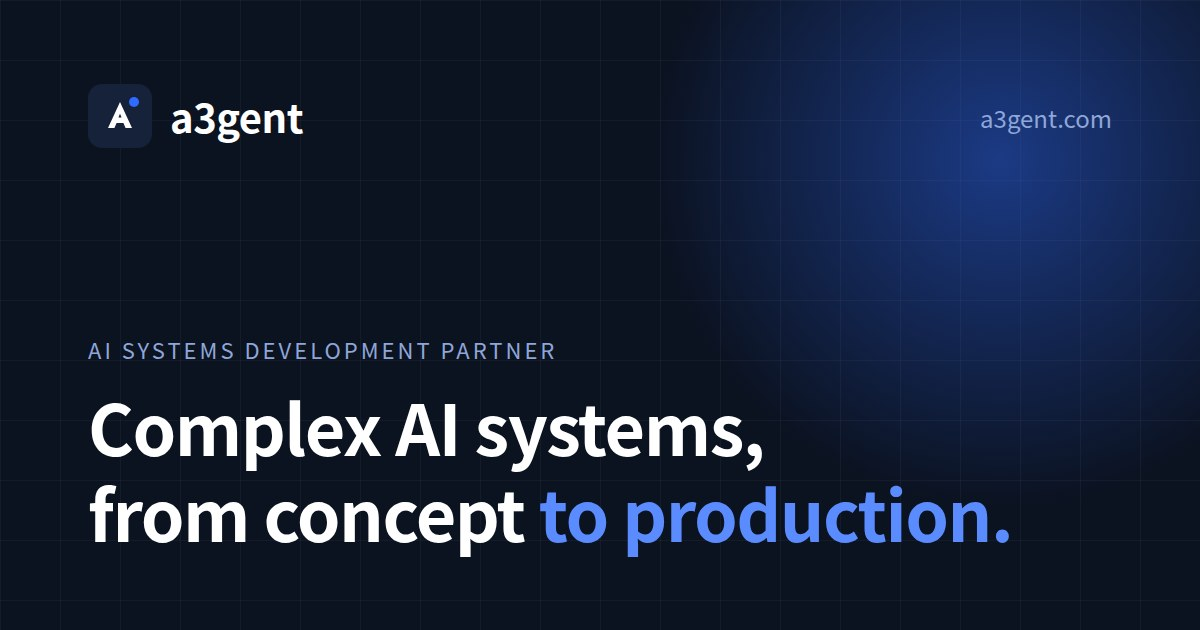
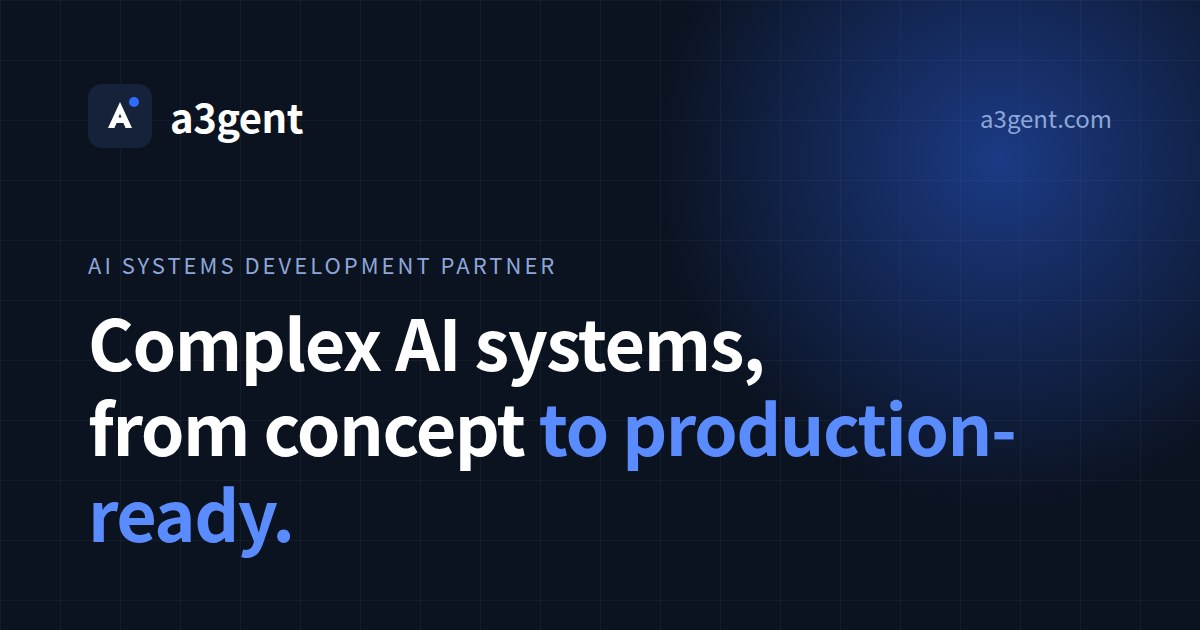
Hero copy: we build and hand over, the client operates
"구상에서 실제 운영까지" / "from concept to production" read as if a3gent
runs the service. Now "운영 가능한 완성까지" / "to production-ready", and
the lede says the client runs the system, operations tooling included.
Same change in titles, OG tags and images, footers and JSON-LD.

Claude-Session: https://claude.ai/code/session_01PHs6kJ9Y2A1oVYSjdwd2Ji

Changed region(s): [[0.0617, 0.6333, 0.8633, 0.9048], [0.0617, 0.4825, 0.6475, 0.6032], [0.0617, 0.3921, 0.4625, 0.4524]]

diff --git a/site/index.html b/site/index.html
@@ -3,7 +3,7 @@
 <head>
 <meta charset="utf-8">
 <meta name="viewport" content="width=device-width, initial-scale=1">
-<title>a3gent — 복잡한 AI 시스템, 구상에서 실제 운영까지</title>
+<title>a3gent — 복잡한 AI 시스템, 구상에서 운영 가능한 완성까지</title>
 <meta name="description" content="a3gent는 검증된 솔루션을 기반으로 기존 시스템·데이터·업무 흐름·운영 조건까지 설계해, AI를 안정적으로 운영되는 서비스로 구현하는 개발 파트너입니다.">
 <link rel="canonical" href="https://a3gent.com/">
 <link rel="alternate" hreflang="ko" href="https://a3gent.com/">
@@ -12,16 +12,16 @@
 <meta property="og:type" content="website">
 <meta property="og:site_name" content="a3gent">
 <meta property="og:url" content="https://a3gent.com/">
-<meta property="og:title" content="a3gent — 복잡한 AI 시스템, 구상에서 실제 운영까지">
+<meta property="og:title" content="a3gent — 복잡한 AI 시스템, 구상에서 운영 가능한 완성까지">
 <meta property="og:description" content="검증된 솔루션의 도입부터 귀사 시스템에 맞춘 연동·확장·검증까지, 두 가지 도입 모델로 제공합니다.">
 <meta property="og:locale" content="ko_KR">
 <meta property="og:locale:alternate" content="en_US">
 <meta property="og:image" content="https://a3gent.com/media/og-ko.jpg">
 <meta property="og:image:width" content="1200">
 <meta property="og:image:height" content="630">
-<meta property="og:image:alt" content="a3gent — 복잡한 AI 시스템, 구상에서 실제 운영까지">
+<meta property="og:image:alt" content="a3gent — 복잡한 AI 시스템, 구상에서 운영 가능한 완성까지">
 <meta name="twitter:card" content="summary_large_image">
-<script type="application/ld+json">{"@context": "https://schema.org", "@graph": [{"@type": "Organization", "@id": "https://a3gent.com/#org", "name": "a3gent", "url": "https://a3gent.com/", "logo": "https://a3gent.com/media/logo-512.png", "description": "복잡한 AI 시스템, 구상에서 실제 운영까지"}, {"@type": "WebSite", "@id": "https://a3gent.com/#website", "name": "a3gent", "url": "https://a3gent.com/", "inLanguage": ["ko", "en"], "publisher": {"@id": "https://a3gent.com/#org"}}]}</script>
+<script type="application/ld+json">{"@context": "https://schema.org", "@graph": [{"@type": "Organization", "@id": "https://a3gent.com/#org", "name": "a3gent", "url": "https://a3gent.com/", "logo": "https://a3gent.com/media/logo-512.png", "description": "복잡한 AI 시스템, 구상에서 운영 가능한 완성까지"}, {"@type": "WebSite", "@id": "https://a3gent.com/#website", "name": "a3gent", "url": "https://a3gent.com/", "inLanguage": ["ko", "en"], "publisher": {"@id": "https://a3gent.com/#org"}}]}</script>
 <meta name="theme-color" content="#0b1220">
 <link rel="icon" type="image/svg+xml" href="favicon.svg">
 <link rel="stylesheet" href="style.css">
@@ -51,11 +51,11 @@
     <canvas class="hero-spot" aria-hidden="true"></canvas>
     <div class="wrap">
       <p class="eyebrow">AI Systems Development Partner</p>
-      <h1><span class="line"><span>복잡한 AI 시스템,</span></span><span class="line"><span>구상에서 <span class="accent">실제 운영까지.</span></span></span></h1>
+      <h1><span class="line"><span>복잡한 AI 시스템,</span></span><span class="line"><span>구상에서 <span class="accent">운영 가능한 완성까지.</span></span></span></h1>
       <p class="lede">
         AI 도입의 성패는 모델이 아니라, 그것이 귀사의 시스템·데이터·업무 흐름·운영 조건 안에서
         <strong>안정적으로 작동하는가</strong>에 달려 있습니다.
-        a3gent는 검증된 솔루션을 기반으로 설계·연동·검증·운영까지 책임지고, 실제 성과를 내는 서비스로 전달합니다.
+        a3gent는 검증된 솔루션을 기반으로 설계·연동·검증까지 책임지고, 귀사가 직접 운영할 수 있는 시스템과 운영 도구까지 갖춰 전달합니다.
       </p>
       <div class="hero-actions">
         <a class="btn btn-primary" href="#solutions">구축된 솔루션 보기<span class="arrow" aria-hidden="true">→</span></a>
@@ -359,7 +359,7 @@
 <footer class="site-footer">
   <div class="wrap footer-inner">
     <span class="wordmark">a3gent</span>
-    <span class="footer-tag">복잡한 AI 시스템, 구상에서 실제 운영까지.</span>
+    <span class="footer-tag">복잡한 AI 시스템, 구상에서 운영 가능한 완성까지.</span>
     <span class="copy">© 2026 a3gent</span>
   </div>
 </footer>

diff --git a/site/en/index.html b/site/en/index.html
@@ -3,7 +3,7 @@
 <head>
 <meta charset="utf-8">
 <meta name="viewport" content="width=device-width, initial-scale=1">
-<title>a3gent — Complex AI systems, from concept to production</title>
+<title>a3gent — Complex AI systems, from concept to production-ready</title>
 <meta name="description" content="a3gent turns AI into services that run reliably in production, designed around your existing systems, data, workflows and operating conditions.">
 <link rel="canonical" href="https://a3gent.com/en/">
 <link rel="alternate" hreflang="ko" href="https://a3gent.com/">
@@ -12,16 +12,16 @@
 <meta property="og:type" content="website">
 <meta property="og:site_name" content="a3gent">
 <meta property="og:url" content="https://a3gent.com/en/">
-<meta property="og:title" content="a3gent — Complex AI systems, from concept to production">
+<meta property="og:title" content="a3gent — Complex AI systems, from concept to production-ready">
 <meta property="og:description" content="Two engagement models: adopt a proven solution, or extend it into your own systems with integration, customisation and validation.">
 <meta property="og:locale" content="en_US">
 <meta property="og:locale:alternate" content="ko_KR">
 <meta property="og:image" content="https://a3gent.com/media/og-en.jpg">
 <meta property="og:image:width" content="1200">
 <meta property="og:image:height" content="630">
-<meta property="og:image:alt" content="a3gent — Complex AI systems, from concept to production">
+<meta property="og:image:alt" content="a3gent — Complex AI systems, from concept to production-ready">
 <meta name="twitter:card" content="summary_large_image">
-<script type="application/ld+json">{"@context": "https://schema.org", "@graph": [{"@type": "Organization", "@id": "https://a3gent.com/#org", "name": "a3gent", "url": "https://a3gent.com/", "logo": "https://a3gent.com/media/logo-512.png", "description": "Complex AI systems, from concept to production"}, {"@type": "WebSite", "@id": "https://a3gent.com/#website", "name": "a3gent", "url": "https://a3gent.com/", "inLanguage": ["ko", "en"], "publisher": {"@id": "https://a3gent.com/#org"}}]}</script>
+<script type="application/ld+json">{"@context": "https://schema.org", "@graph": [{"@type": "Organization", "@id": "https://a3gent.com/#org", "name": "a3gent", "url": "https://a3gent.com/", "logo": "https://a3gent.com/media/logo-512.png", "description": "Complex AI systems, from concept to production-ready"}, {"@type": "WebSite", "@id": "https://a3gent.com/#website", "name": "a3gent", "url": "https://a3gent.com/", "inLanguage": ["ko", "en"], "publisher": {"@id": "https://a3gent.com/#org"}}]}</script>
 <meta name="theme-color" content="#0b1220">
 <link rel="icon" type="image/svg+xml" href="../favicon.svg">
 <link rel="stylesheet" href="../style.css">
@@ -51,12 +51,12 @@
     <canvas class="hero-spot" aria-hidden="true"></canvas>
     <div class="wrap">
       <p class="eyebrow">AI Systems Development Partner</p>
-      <h1><span class="line"><span>Complex AI systems,</span></span><span class="line"><span>from concept <span class="accent">to production.</span></span></span></h1>
+      <h1><span class="line"><span>Complex AI systems,</span></span><span class="line"><span>from concept <span class="accent">to production-ready.</span></span></span></h1>
       <p class="lede">
         Whether an AI initiative pays off is decided not by the model, but by whether it
         <strong>runs reliably</strong> inside your systems, your data, your workflows and your operating
-        conditions. a3gent takes ownership of design, integration, validation and operation on a
-        proven solution base, and delivers a service that produces measurable results.
+        conditions. a3gent takes ownership of design, integration and validation on a proven
+        solution base, and hands over a system your team can run, operations tooling included.
       </p>
       <div class="hero-actions">
         <a class="btn btn-primary" href="#solutions">See our solutions<span class="arrow" aria-hidden="true">→</span></a>
@@ -360,7 +360,7 @@
 <footer class="site-footer">
   <div class="wrap footer-inner">
     <span class="wordmark">a3gent</span>
-    <span class="footer-tag">Complex AI systems, from concept to production.</span>
+    <span class="footer-tag">Complex AI systems, from concept to production-ready.</span>
     <span class="copy">© 2026 a3gent</span>
   </div>
 </footer>

diff --git a/site/demos/index.html b/site/demos/index.html
@@ -19,7 +19,7 @@
 <meta property="og:image" content="https://a3gent.com/media/og-ko.jpg">
 <meta property="og:image:width" content="1200">
 <meta property="og:image:height" content="630">
-<meta property="og:image:alt" content="a3gent — 복잡한 AI 시스템, 구상에서 실제 운영까지">
+<meta property="og:image:alt" content="a3gent — 복잡한 AI 시스템, 구상에서 운영 가능한 완성까지">
 <meta name="twitter:card" content="summary_large_image">
 <link rel="icon" type="image/svg+xml" href="../favicon.svg">
 <link rel="stylesheet" href="../style.css">
@@ -86,7 +86,7 @@
 <footer class="site-footer">
   <div class="wrap footer-inner">
     <span class="wordmark">a3gent</span>
-    <span class="footer-tag">복잡한 AI 시스템, 구상에서 실제 운영까지.</span>
+    <span class="footer-tag">복잡한 AI 시스템, 구상에서 운영 가능한 완성까지.</span>
     <span class="copy">© 2026 a3gent</span>
   </div>
 </footer>

diff --git a/site/demos/en/index.html b/site/demos/en/index.html
@@ -19,7 +19,7 @@
 <meta property="og:image" content="https://a3gent.com/media/og-en.jpg">
 <meta property="og:image:width" content="1200">
 <meta property="og:image:height" content="630">
-<meta property="og:image:alt" content="a3gent — Complex AI systems, from concept to production">
+<meta property="og:image:alt" content="a3gent — Complex AI systems, from concept to production-ready">
 <meta name="twitter:card" content="summary_large_image">
 <link rel="icon" type="image/svg+xml" href="../../favicon.svg">
 <link rel="stylesheet" href="../../style.css">
@@ -86,7 +86,7 @@
 <footer class="site-footer">
   <div class="wrap footer-inner">
     <span class="wordmark">a3gent</span>
-    <span class="footer-tag">Complex AI systems, from concept to production.</span>
+    <span class="footer-tag">Complex AI systems, from concept to production-ready.</span>
     <span class="copy">© 2026 a3gent</span>
   </div>
 </footer>

diff --git a/site/viewer/oralpilot/index.html b/site/viewer/oralpilot/index.html
@@ -19,7 +19,7 @@
 <meta property="og:image" content="https://a3gent.com/media/og-ko.jpg">
 <meta property="og:image:width" content="1200">
 <meta property="og:image:height" content="630">
-<meta property="og:image:alt" content="a3gent — 복잡한 AI 시스템, 구상에서 실제 운영까지">
+<meta property="og:image:alt" content="a3gent — 복잡한 AI 시스템, 구상에서 운영 가능한 완성까지">
 <meta name="twitter:card" content="summary_large_image">
 <link rel="icon" type="image/svg+xml" href="../../favicon.svg">
 <link rel="stylesheet" href="../../style.css">

diff --git a/site/viewer/soma/index.html b/site/viewer/soma/index.html
@@ -19,7 +19,7 @@
 <meta property="og:image" content="https://a3gent.com/media/og-ko.jpg">
 <meta property="og:image:width" content="1200">
 <meta property="og:image:height" content="630">
-<meta property="og:image:alt" content="a3gent — 복잡한 AI 시스템, 구상에서 실제 운영까지">
+<meta property="og:image:alt" content="a3gent — 복잡한 AI 시스템, 구상에서 운영 가능한 완성까지">
 <meta name="twitter:card" content="summary_large_image">
 <link rel="icon" type="image/svg+xml" href="../../favicon.svg">
 <link rel="stylesheet" href="../../style.css">

diff --git a/site/en/viewer/oralpilot/index.html b/site/en/viewer/oralpilot/index.html
@@ -19,7 +19,7 @@
 <meta property="og:image" content="https://a3gent.com/media/og-en.jpg">
 <meta property="og:image:width" content="1200">
 <meta property="og:image:height" content="630">
-<meta property="og:image:alt" content="a3gent — Complex AI systems, from concept to production">
+<meta property="og:image:alt" content="a3gent — Complex AI systems, from concept to production-ready">
 <meta name="twitter:card" content="summary_large_image">
 <link rel="icon" type="image/svg+xml" href="../../../favicon.svg">
 <link rel="stylesheet" href="../../../style.css">

diff --git a/site/en/viewer/soma/index.html b/site/en/viewer/soma/index.html
@@ -19,7 +19,7 @@
 <meta property="og:image" content="https://a3gent.com/media/og-en.jpg">
 <meta property="og:image:width" content="1200">
 <meta property="og:image:height" content="630">
-<meta property="og:image:alt" content="a3gent — Complex AI systems, from concept to production">
+<meta property="og:image:alt" content="a3gent — Complex AI systems, from concept to production-ready">
 <meta name="twitter:card" content="summary_large_image">
 <link rel="icon" type="image/svg+xml" href="../../../favicon.svg">
 <link rel="stylesheet" href="../../../style.css">
